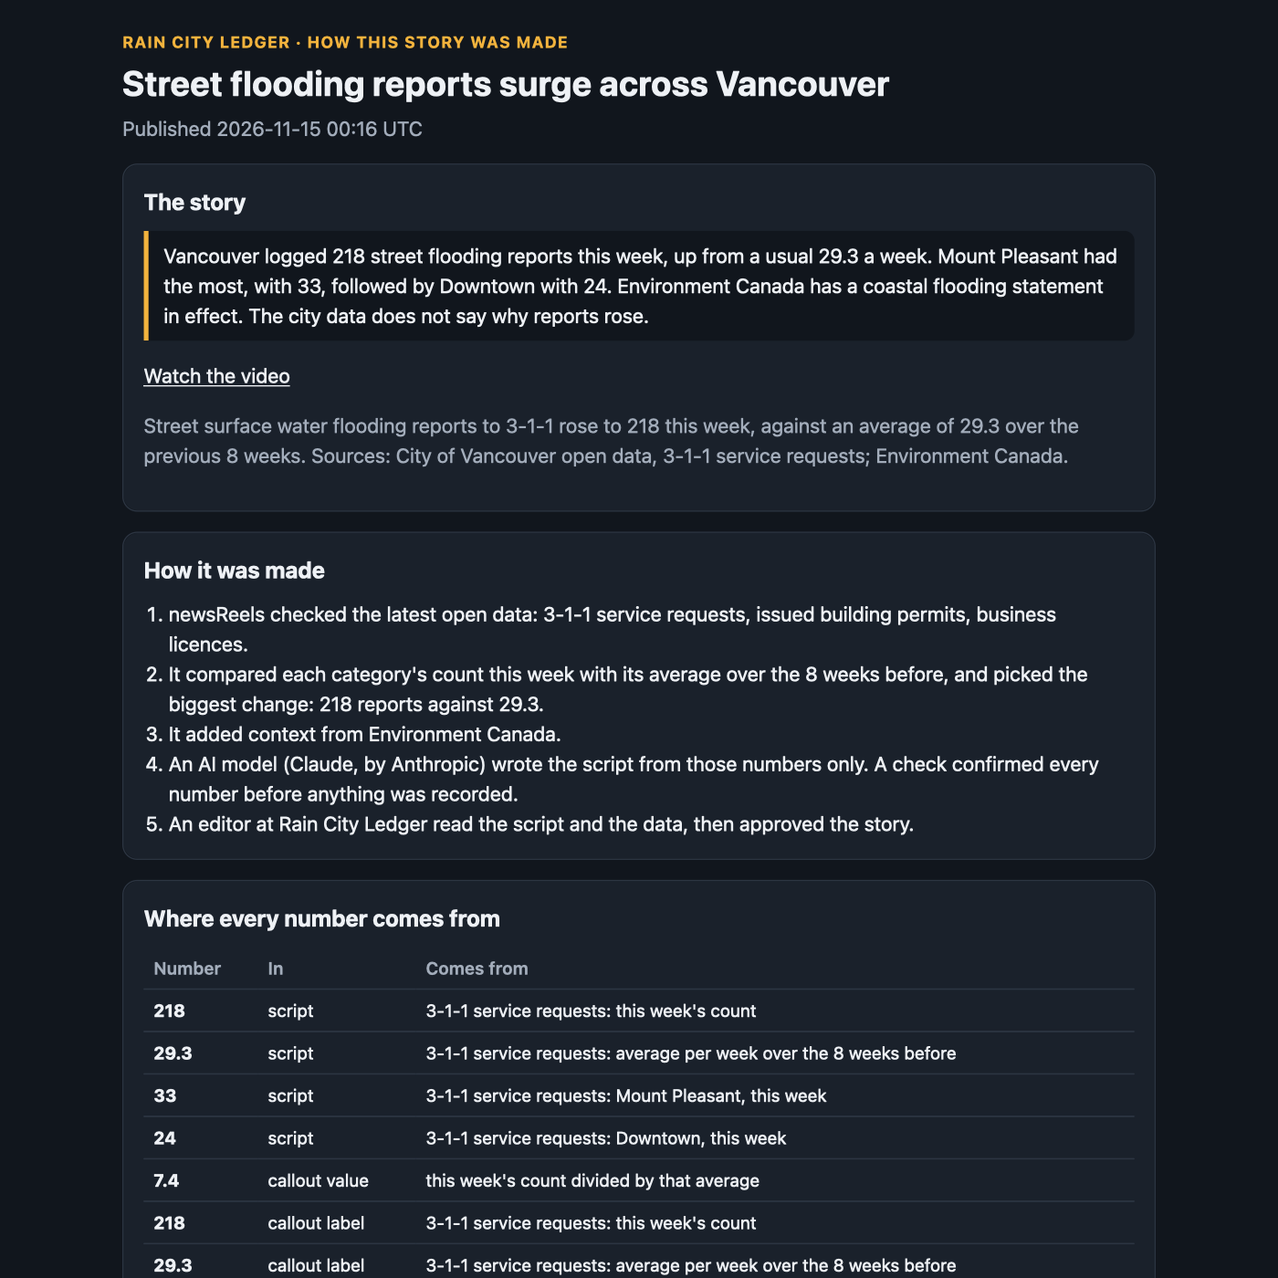
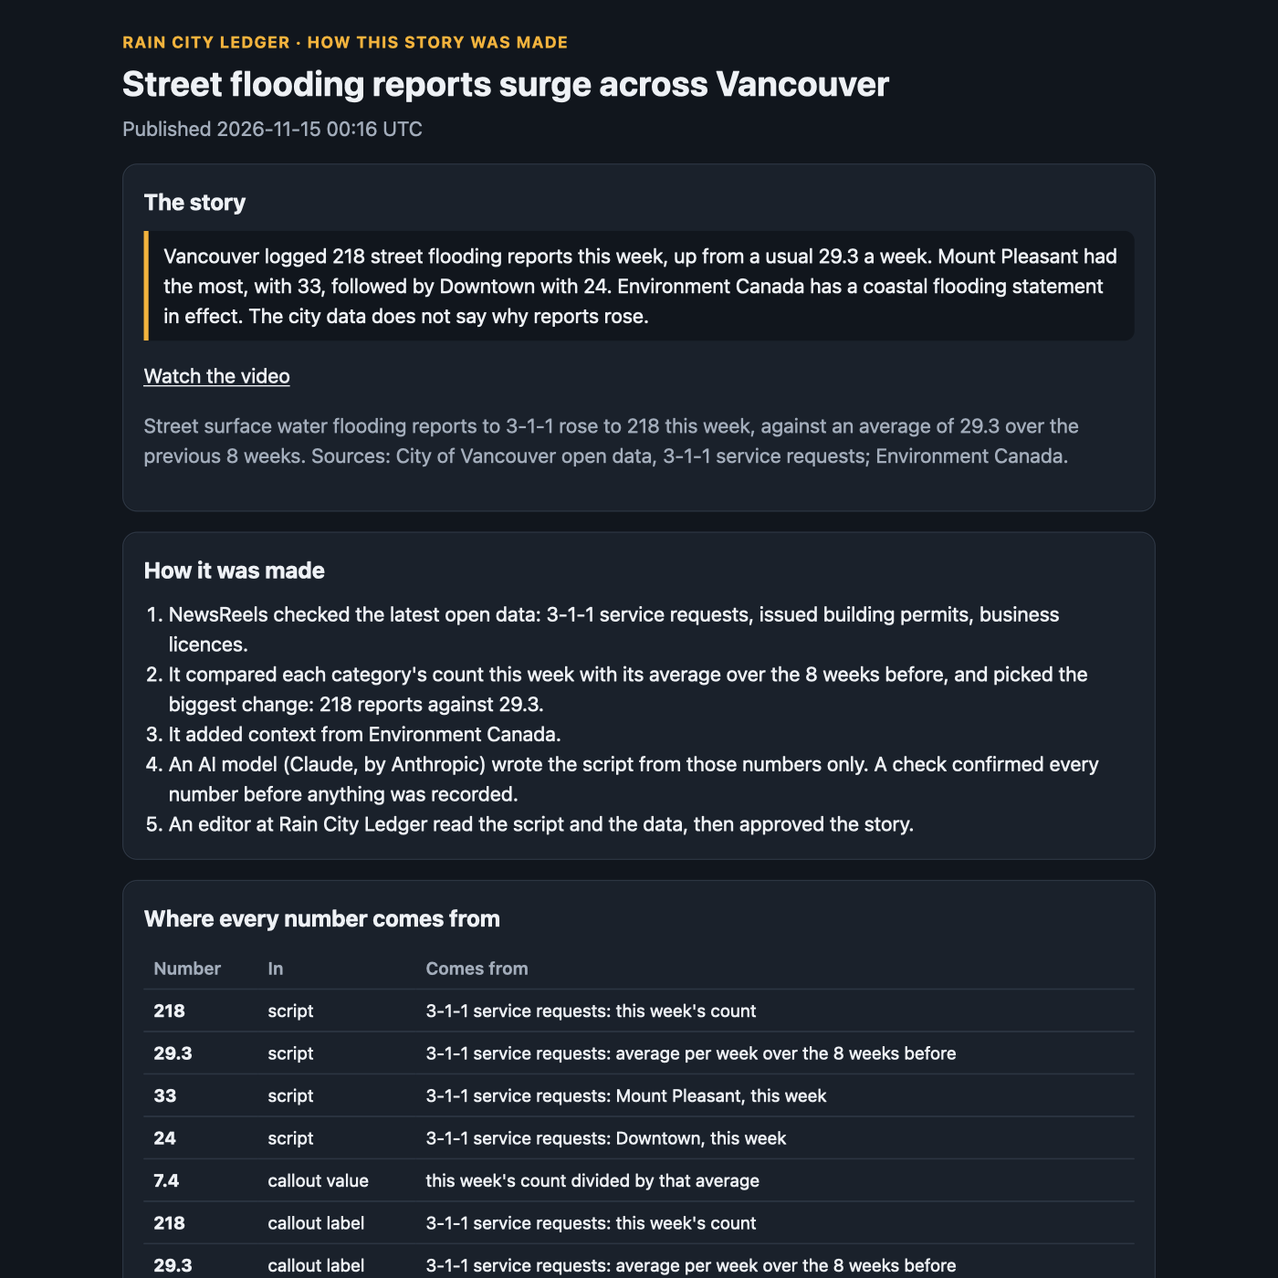
Bring every doc up to the final state: two-person team, 30 second scenes, unemployment, Reddit
README, spec, must-work, storyboard, pitch, contracts, the pipeline and
render service READMEs and the runbook now match the build: videos of
about 30 seconds in three scenes, Sonnet edits that change anything but
numbers, the unemployment series, web search and Reddit reactions. Counts
of workflows live only in the pipeline README. The agent guide no longer
points at the finished product discussion, the stop times follow the
eProjects schedule, and the sample screenshots are regenerated.

Changed region(s): [[0.1229, 0.4607, 0.8293, 0.4914]]

diff --git a/README.md b/README.md
@@ -1,6 +1,6 @@
 # NewsReels
 
-NewsReels turns a newsroom's or creator's own sources, open data and news feeds, into short narrated news videos. Their editor reviews each one in a Slack thread before anything is published. Built in n8n for LOOP, the UBC eProjects x n8n Buildathon, 14 and 15 November 2026.
+NewsReels turns a newsroom's or creator's own sources, open data and news feeds, into short narrated news videos. Their editor reviews each one in a Slack thread before anything is published. Built in n8n by Vinayak and Arman for LOOP, the UBC eProjects x n8n Buildathon, 14 and 15 November 2026.
 
 ## The problem
 
@@ -8,13 +8,13 @@ NewsReels turns a newsroom's or creator's own sources, open data and news feeds,
 
 ## A run
 
-1. A run starts by hand, on a daily schedule (off during the event), or when someone writes "@NewsReels make a video about graffiti in Mount Pleasant" in the editor's Slack channel.
+1. A run starts by hand, on a daily schedule (off during the event), or when someone writes "@NewsReels make a video about graffiti in Mount Pleasant" in the editor's Slack channel. A question ("@NewsReels show unemployment over the last 5 years") gets its numbers in the thread; a time series such as Vancouver's unemployment rate comes from Statistics Canada.
 2. **Collect** pulls nine weeks of the client's datasets. The demo client, Rain City Ledger (made up), uses City of Vancouver 3-1-1 requests, building permits and business licences.
 3. **Score** compares this week with the eight before and keeps a rise to at least 20 and twice the usual level, or a fall to half.
-4. **Context** reads the client's news feeds: BC Government News, Environment Canada weather alerts and DriveBC road events.
-5. **Write**: Claude Sonnet 5.5 drafts a headline, a 35 to 45 word script, a chart and a newsletter blurb in the client's style. A code check stops the run if any number is not in the data or in a report the script names.
-6. The editor gets the script and its data in a Slack thread before any voice or video is made. Replies in plain words ("make the headline calmer") are applied by Claude Haiku 5.5 and checked again.
-7. **Approve script**: ElevenLabs reads it and a Remotion service renders a 20 second vertical video into the thread.
+4. **Context** reads the client's news feeds (BC Government News, Environment Canada weather alerts, DriveBC road events), searches the web for a story someone asked for, and gathers how people are reacting on Reddit, as opinion only.
+5. **Write**: Claude Sonnet 5.5 drafts a headline, a script of about 30 seconds, a chart, a closing line and a newsletter blurb in the client's style. A code check stops the run if any number is not in the data or in a report the script names.
+6. The editor gets the script and its data in a Slack thread before any voice or video is made. Replies in plain words can change anything but the numbers ("make the headline calmer", "make it a line chart", "make Mount Pleasant red"); Claude Sonnet 5.5 applies them and the number check runs again.
+7. **Approve script**: ElevenLabs reads it and a Remotion service renders a vertical video of about 30 seconds into the thread: a title card with the big number, the chart (bar, line or pie), and a closing line.
 8. **Approve and publish**: the video, blurb and a "How this story was made" link go to the client's channel.
 
 If a source fails or nothing passes the bar, the editor gets "No story today" and the reason. Example, 7 to 13 November: 218 street flooding reports, 7.4 times the usual 29.3 a week, most in Mount Pleasant, with Environment Canada's coastal flooding statement as context.
@@ -29,23 +29,23 @@ A story costs about one cent of Claude. Samples are in [05_submit/output/samples
 
 ## The workflows
 
-Ten n8n workflows, built as code and deployed through n8n's API: 0 Orchestrator, 1 Collect, 2 Score, 2b Context, 3 Write, 4 Voice, 5 Render, 6 Publish, 7 Chat (the Slack review) and 8 Request (questions and video requests). What each does, with a picture of every canvas: [pipeline README](03_build/output/pipeline/README.md).
+Every step is its own n8n workflow, built as code and deployed through n8n's API: an orchestrator; Collect, Score, Context, Reddit, Write, Voice, Render and Publish; the Slack review (7 Chat); and questions and video requests (8 Request). What each does, with a picture of every canvas: [pipeline README](03_build/output/pipeline/README.md).
 
 ## Safeguards
 
 - Nothing publishes without two approvals from the editor, and no voice or video is paid for before the script is approved.
-- No number reaches the script unless it is in the data or a news report the script names.
+- No number reaches the script unless it is in the data or a news report the script names. Reddit is opinion only, never a source for numbers.
 - Public sources only, reported by neighbourhood, never an address or a person.
 - Failures reach the editor; nothing fails silently.
 - It reports what changed, not why.
 
 ## Built with
 
-n8n 2.47.7 (self-hosted), Claude Sonnet 5.5 and Haiku 5.5, ElevenLabs, Remotion, Slack and ngrok. Everything used is listed in [services.md](03_build/output/services.md). n8n, the render service and a small router run on one laptop behind a tunnel ([infrastructure](_config/infrastructure.md)).
+n8n 2.47.7 (self-hosted), Claude Sonnet 5.5 and Haiku 5.5, ElevenLabs, Remotion, Slack, Reddit, Statistics Canada and ngrok. Everything used is listed in [services.md](03_build/output/services.md). n8n, the render service and a small router run on one laptop behind a tunnel ([infrastructure](_config/infrastructure.md)).
 
 ## A new client
 
-One config file: name and look, Slack channels, data sources, news feeds and a style card for the writing. Example: [rain-city-ledger.json](03_build/output/clients/rain-city-ledger.json).
+One config file: name and look, Slack channels, data sources, time series, news feeds, subreddits and a style card for the writing. Example: [rain-city-ledger.json](03_build/output/clients/rain-city-ledger.json).
 
 ## For the team
 

diff --git a/03_build/output/pipeline/README.md b/03_build/output/pipeline/README.md
@@ -1,6 +1,6 @@
 # NewsReels pipeline
 
-The source for all ten n8n workflows, written by Arman and Vinayak with Claude Code and running end to end since the evening of 14 November. Each run serves one client (D13, D15), set in one file in [../clients/](../clients/): its name and look, Slack channels, data sources, news feeds and style card. The build puts that file into a "Client" node.
+The source for every n8n workflow, written by Arman and Vinayak with Claude Code and running end to end since the evening of 14 November. Each run serves one client (D13, D15), set in one file in [../clients/](../clients/): its name and look, Slack channels, data sources, news feeds and style card. The build puts that file into a "Client" node.
 
 - `code/`: every Code node and the prompts
 - [build.mjs](build.mjs): writes the workflow JSON and a picture of each canvas into [../workflows/](../workflows/) (`npm run pipeline`)
@@ -14,7 +14,7 @@ The source for all ten n8n workflows, written by Arman and Vinayak with Claude C
 | 2b Context | Reads the client's news feeds and adds the newest reports since the story's week began. For a story asked for in Slack, also searches the web and keeps every cited page with the exact words cited, for Write, the editor and the trace (D20) |
 | 2c Reddit | How people are reacting on Reddit, for every story: n8n's Reddit node searches the client's subreddits and reads top comments, and Claude Haiku sums up the mood. Opinion only, never a source for numbers (D23) |
 | 3 Write | Claude Sonnet 5.5 writes the headline, script, chart title and blurb in the client's style, with at most one sentence from a report it names; the guard checks every number and records where it came from |
-| 4 Voice | ElevenLabs reads the script, stops if it runs 22 seconds or longer, and records the credits used |
+| 4 Voice | ElevenLabs reads the script, stops if it runs 48 seconds or longer, and records the credits used |
 | 5 Render | The Remotion service beside n8n makes the 9:16 video |
 | 6 Publish | Saves the final trace, then posts the video, blurb and public "How this story was made" link to the outlet channel |
 | 7 Chat | The editor's review in one Slack thread per story: script and data first, then the video. Replies change either one through Claude Haiku 5.5, and the guard checks every change (D14) |
@@ -40,7 +40,7 @@ A member account on our self-hosted n8n sees only the workflows it made (sharing
 ## Getting it into n8n
 
 1. Change code in `code/`, `build.mjs` or the client file, never the JSON in `workflows/`. Then `npm run pipeline` and `npm run test:pipeline`.
-2. `npm run deploy` pushes all ten, the orchestrator last, creates the data table `editor_threads` that 7 Chat keeps its threads in, and points every Execute Workflow node at its workflow by name. Workflows that call each other are linked on a second pass.
+2. `npm run deploy` pushes them all, the orchestrator last, creates the data table `editor_threads` that 7 Chat keeps its threads in, and points every Execute Workflow node at its workflow by name. Workflows that call each other are linked on a second pass.
 3. These credentials must exist in n8n with exactly these names. Put their values in the git-ignored `.env` (`ANTHROPIC_API_KEY`, `ELEVENLABS_API_KEY`, `RENDER_TOKEN`, `SLACK_BOT_TOKEN`) and run `npm run credentials`, which creates or updates each one and skips blanks. Then deploy again.
 
 | Name | Type | Used by |
@@ -63,7 +63,7 @@ A member account on our self-hosted n8n sees only the workflows it made (sharing
 | `npm run invoke -- collect` | `ok: true`, 9 `weeks`, about 220 `types` (3-1-1) |
 | `npm run invoke -- context` | `ok: true`, `reports`, and three entries in `feeds_checked` |
 | `npm run invoke -- write` | `ok: true` and a `spec`; if `ok: false`, the reason names the number that was not in the data |
-| `npm run invoke -- voice` | `ok: true`, `audio_seconds` under 22, and a `voice_calls` entry |
+| `npm run invoke -- voice` | `ok: true`, `audio_seconds` under 48, and a `voice_calls` entry |
 | `npm run invoke -- render` | `ok: true` and a `video_url` that plays (silent with the sample) |
 | `npm run invoke -- request req.json` | A quick answer or a review thread; `req.json` is `{ "kind": "request", "text": "...", "user": "...", "ts": "" }` |
 | `npm run invoke -- orchestrator` | The whole run, ending with the review message in the editor channel |

diff --git a/product/output/spec.md b/product/output/spec.md
@@ -1,10 +1,10 @@
 # Spec
 
-Agreed Saturday 14 November, evening, from the team's discussion and [Vinayak's proposal](../proposals/vinayak.md). Decisions D13 to D17 hold the detail; this page says what is built and what is left.
+Agreed Saturday 14 November, evening, from the team's discussion and [Vinayak's proposal](../proposals/vinayak.md), and kept current since. Decisions D13 to D23 hold the detail; this page says what is built and what is left.
 
 ## Product
 
-NewsReels turns a newsroom's or creator's own sources, open data and news feeds, into short narrated news videos that their editor reviews in Slack (D13). Each client is one config file: name and look, Slack channels, data sources, news feeds and a style card (D15). The demo client is Rain City Ledger, a made-up Vancouver outlet.
+NewsReels turns a newsroom's or creator's own sources, open data and news feeds, into short narrated news videos that their editor reviews in Slack (D13). Each client is one config file: name and look, Slack channels, data sources, time series, news feeds and a style card (D15). The demo client is Rain City Ledger, a made-up Vancouver outlet. Team: Vinayak and Arman (D22).
 
 ## Built and working live
 
@@ -12,24 +12,25 @@ Each row is in [must-work.md](../../02_storyboard/output/must-work.md) with its 
 
 | Feature | Decision | Must-work |
 | --- | --- | --- |
-| Collect, Score, Write with the number guard, Voice, Render, Publish | D12 | 1 to 10 |
+| Collect, Score, Write with the number check, Voice, Render, Publish | D12 | 1 to 10 |
 | Client config, with its name and colour on the video | D15 | 11 |
 | News context from BC Government News, Environment Canada alerts and DriveBC | D15 | 12 |
-| Review in one Slack thread: script first, then video; replies edit the draft | D14 | 6, 7 |
+| Review in one Slack thread: script first, then video | D14 | 6, 7 |
 | Run trace and public "How this story was made" page | D16 | 13 |
 | Slack requests: "@NewsReels make a video about ..." or a question | D17 | 14 |
 | Run ledger: who, what, status, Claude and ElevenLabs cost | D17 | 15 |
-| Chart edits from the thread: bar, line or pie, a colour, a highlight; the video is remade in about 20 seconds | D18 | 16 |
+| Web search for requested stories, every source shown to the editor | D20 | 17 |
+| Vancouver unemployment rate from Statistics Canada, for requests | D21 | 18 |
+| Edits that change anything but the numbers; about 30 second videos in three scenes; bar, line or pie charts | D18, D21 | 16, 19 |
+| Reddit reactions to each story, opinion only (on once the Reddit credential is connected) | D23 | 20 |
 
-## Before the freeze, Sunday 11:00
+## Before the freeze, Sunday 13:00
 
-In order. Each has its test and the stage it touches.
-
-1. **Account settings (Arman).** The ElevenLabs key gets User: Read; the Slack app gets `users:read` and is reinstalled. Test: the ledger shows a dollar figure for ElevenLabs and a name in "Who". Stage: 03_build.
-2. **Three clean runs in a row**, from the orchestrator through publish, logged with `npm run sync`. Test: three consecutive runs in `test-log.md` without a failure. Stage: 03_build.
-3. **Guard test live** (must-work row 9). Test: with `test_tamper` on, the editor gets "Blocked: 219 ...". Stage: 03_build.
-4. **Licence and terms checks** for Remotion and the three news feeds, recorded in `services.md`. Test: no open "check" left in `services.md`. Stage: 05_submit.
-5. **Storyboard approved and recording planned.** Test: `storyboard.md` has a line starting "Approved". Stage: 02_storyboard, 04_demo.
+1. **Reddit credential (Arman):** connect it so 2c Reddit runs. Test: `npm run doctor` shows nothing to do.
+2. **Account settings (Arman):** the ElevenLabs key gets User: Read; the Slack app gets `users:read` and is reinstalled. Test: the ledger shows a dollar figure for ElevenLabs and a name in "Who".
+3. **Three clean runs in a row**, orchestrator through publish, logged with `npm run sync`.
+4. **Guard test live** (must-work row 9): with `test_tamper` on, the editor gets "Blocked: 219 ...".
+5. **Demo setup:** a fresh Slack channel and a fresh run ledger; the storyboard gets its "Approved" line.
 
 ## After the event
 

diff --git a/02_storyboard/output/must-work.md b/02_storyboard/output/must-work.md
@@ -6,8 +6,8 @@ Every step the storyboard shows, in order. Each one is the build scope and has a
 | --- | --- | --- | --- | --- |
 | 1 | **Collect.** An n8n workflow pulls 9 weeks of each of the client's datasets (3-1-1 requests, building permits, business licences), grouped by category, week and neighbourhood | B3 | 9 weeks of counts per category for each source | Arman |
 | 2 | **Score.** A code step ranks types by this week against the 8-week average and picks the top story, with its neighbourhood breakdown | B4 | Top story matches a hand check of the API | |
-| 3 | **Write.** An agent turns the story into a headline, a script of 35 to 45 words, and a chart spec, using only numbers from step 2 or a news report it names (D15) | B5 | Every number in the script appears in the story | |
-| 4 | **Voice.** ElevenLabs reads the script | B5, B6 | Audio file returns, under 22 seconds | |
+| 3 | **Write.** Claude turns the story into a headline, a script of about 30 seconds, a closing line and a chart spec, using only numbers from step 2 or a news report it names (D15) | B5 | Every number in the script appears in the story | |
+| 4 | **Voice.** ElevenLabs reads the script | B5, B6 | Audio file returns, under 48 seconds | |
 | 5 | **Render.** A render service on the host laptop, next to n8n, turns the chart spec and audio into a 9:16 video | B5, B6 | n8n gets back a playable MP4 link | |
 | 6 | **Approve.** Slack sends the editor the script and the data behind it first, then the video, each with approve and reject. Replies in the thread change either one (D14) | B7 | A reply such as "make the headline calmer" gets a revised draft in the thread; tapping approve on a phone makes the video, then publishes | Arman |
 | 7 | **Publish.** Approval posts the video and the newsletter blurb to the outlet channel in Slack (D12) | B7 | The post is visible; the blurb exists | |

diff --git a/02_storyboard/output/storyboard.md b/02_storyboard/output/storyboard.md
@@ -19,7 +19,7 @@ From Collect on 2026-11-14, using whole Vancouver days (7 to 13 November): stree
 | B7 | 1:40 to 1:55 | Approve and publish; the post in the outlet channel with its "How this story was made" link | One more approval, and it is published with a page that shows how it was made. | Demo |
 | B8 | 1:55 to 2:15 | The run trace: follow 218 back to the 3-1-1 data; the news report; what Claude was asked; the cost | AI you can see into: every number traces back to its source, and every run shows what it cost. | Innovation, Trust |
 | B9 | 2:15 to 2:35 | A teammate writes "@NewsReels make a video about graffiti in Mount Pleasant"; the draft arrives in the thread; the run ledger with every run and its cost | Anyone in the newsroom can ask for a story or a number, and every run lands in a ledger. | Impact, Technical |
-| B10 | 2:35 to 2:50 | The ten workflows, then the client config file, then NewsReels | Ten n8n workflows. A new client is one config file. | Technical |
+| B10 | 2:35 to 2:50 | The n8n workflows, then the client config file, then NewsReels | Every step is an n8n workflow. A new client is one config file. | Technical |
 
 ## Open for the team
 

diff --git a/05_submit/output/pitch.md b/05_submit/output/pitch.md
@@ -8,7 +8,7 @@ NewsReels turns a newsroom's or creator's own sources into short narrated news v
 
 ## Twenty seconds
 
-Cities publish data every day, and small newsrooms have nobody to read it. NewsReels checks a client's open data and news feeds, finds the week's real change, and drafts a 20 second video in their style. Today that is street flooding reports at 7.4 times their usual level, worst in Mount Pleasant, with Environment Canada's flooding statement as context. The editor reviews the script in Slack, asks for changes in plain words, approves the video, and every number links back to its source.
+Cities publish data every day, and small newsrooms have nobody to read it. NewsReels checks a client's open data and news feeds, finds the week's real change, and drafts a 30 second video in their style. Today that is street flooding reports at 7.4 times their usual level, worst in Mount Pleasant, with Environment Canada's flooding statement as context. The editor reviews the script in Slack, asks for changes in plain words, approves the video, and every number links back to its source.
 
 ## What problem does it solve, and for whom?
 

diff --git a/CONTEXT.md b/CONTEXT.md
@@ -31,11 +31,11 @@ Read only the current stage, its declared inputs, and the configuration it names
 | 01_idea | Everyone can say the problem in one sentence | Sat 13:00 |
 | 02_storyboard | The storyboard has a line starting "Approved" | Sat 14:00 |
 | product | The spec is agreed | Sat 21:00 |
-| 03_build | The golden path passes three logged runs in a row | Freeze Sun 11:00 |
-| 04_demo | The video is under 3:00 and uploaded | Sun 13:30 |
-| 05_submit | Devpost is submitted | Sun 14:30 |
+| 03_build | The golden path passes three logged runs in a row | Freeze Sun 13:00 |
+| 04_demo | The video is under 3:00 and uploaded | Sun 14:15 |
+| 05_submit | Devpost is submitted | Sun 14:45 |
 
-Submissions close Sunday 15:00. Nobody pushes to this repository or edits Devpost after that.
+eProjects freezes features at 15:00 and locks submissions at 15:45; the written rules disqualify any edit after 15:00 ([judges.md](_config/judges.md)). Nobody pushes to this repository or edits Devpost after 15:00.
 
 ## Operating rules
 

diff --git a/AGENTS.md b/AGENTS.md
@@ -10,7 +10,7 @@ The team talks to you in plain words and does not know how this repository is or
 
 1. `npm run update` pulls teammates' work, and `npm run doctor` lists what is left to set up. Claude Code runs both at session start; their output is above.
 2. Do every setup step you can. Ask the person only for a key, a channel ID or a click in a provider's console.
-3. Until `product/output/spec.md` exists, the team is deciding what to build next. Once setup is done, open the conversation in `product/questions.md` (contract: `product/CONTEXT.md`) unless the person came with something else.
+3. [product/output/spec.md](product/output/spec.md) says what is built and what is left before the freeze. Start from what the person asks.
 
 ## Where things are
 

diff --git a/05_submit/output/samples/README.md b/05_submit/output/samples/README.md
@@ -8,6 +8,7 @@ Screenshots of real pages from 14 November 2026, with Slack user IDs replaced by
 - [Run ledger](run-ledger.png): one row per run, with who asked, the status and the cost.
 - [Chart types](chart-types.png): the same story as a line, a pie with Mount Pleasant in red, and bars, as an editor can ask for from the thread. [thumbnail.png](thumbnail.png) is its 3:2 crop for Devpost.
 - [n8n orchestrator](n8n-orchestrator.png): the orchestrator's canvas, drawn from its workflow JSON.
+- [Video scenes](video-scenes.png): three frames of a 24 second video: the title card, the chart and the closing line.
 
 ![Run trace](run-trace.png)
 ![How this story was made](how-this-story-was-made.png)

diff --git a/04_demo/output/runbook.md b/04_demo/output/runbook.md
@@ -19,7 +19,7 @@ For the judges' tables and for recording the video. Everything runs on the host 
 3. Approve script: the video arrives in the thread. Reply "make it a line chart"; about 20 seconds later the new video arrives.
 4. Open the trace: follow 218 back to the 3-1-1 data; show the news report, what Claude was asked and the cost.
 5. Write "@NewsReels how many noise complaints in Kitsilano this week?": the answer arrives in the thread.
-6. The run ledger: every run, who asked, what it cost. Then n8n: the ten workflows and their runs.
+6. The run ledger: every run, who asked, what it cost. Then n8n: the workflows and their runs.
 
 ## If something fails
 

diff --git a/_config/contracts.md b/_config/contracts.md
@@ -87,7 +87,7 @@ Score gets every `collected` and returns `{ "ok": true, "story": …, "runners_u
 ```json
 {
   "headline": "Flooding reports up seven times",
-  "script": "35 to 45 words (the client's style.script_words), every number from the story",
+  "script": "About 30 seconds (the client's style.script_words), every number from the story",
   "callout": { "value": "7.4×", "label": "218 reports this week against an average of 29.3" },
   "chart": {
     "kind": "bar",

diff --git a/03_build/output/render-service/README.md b/03_build/output/render-service/README.md
@@ -23,7 +23,7 @@ Preview the composition in Remotion Studio with `npm run dev`.
 {
   "spec": {
     "headline": "Flooding reports are up more than seven times this week",
-    "script": "35 to 45 words. Each sentence becomes one caption.",
+    "script": "About 30 seconds of narration. Each sentence becomes one caption.",
     "chart": {
       "kind": "bar",
       "title": "Flooding reports by neighbourhood, last 7 days",
